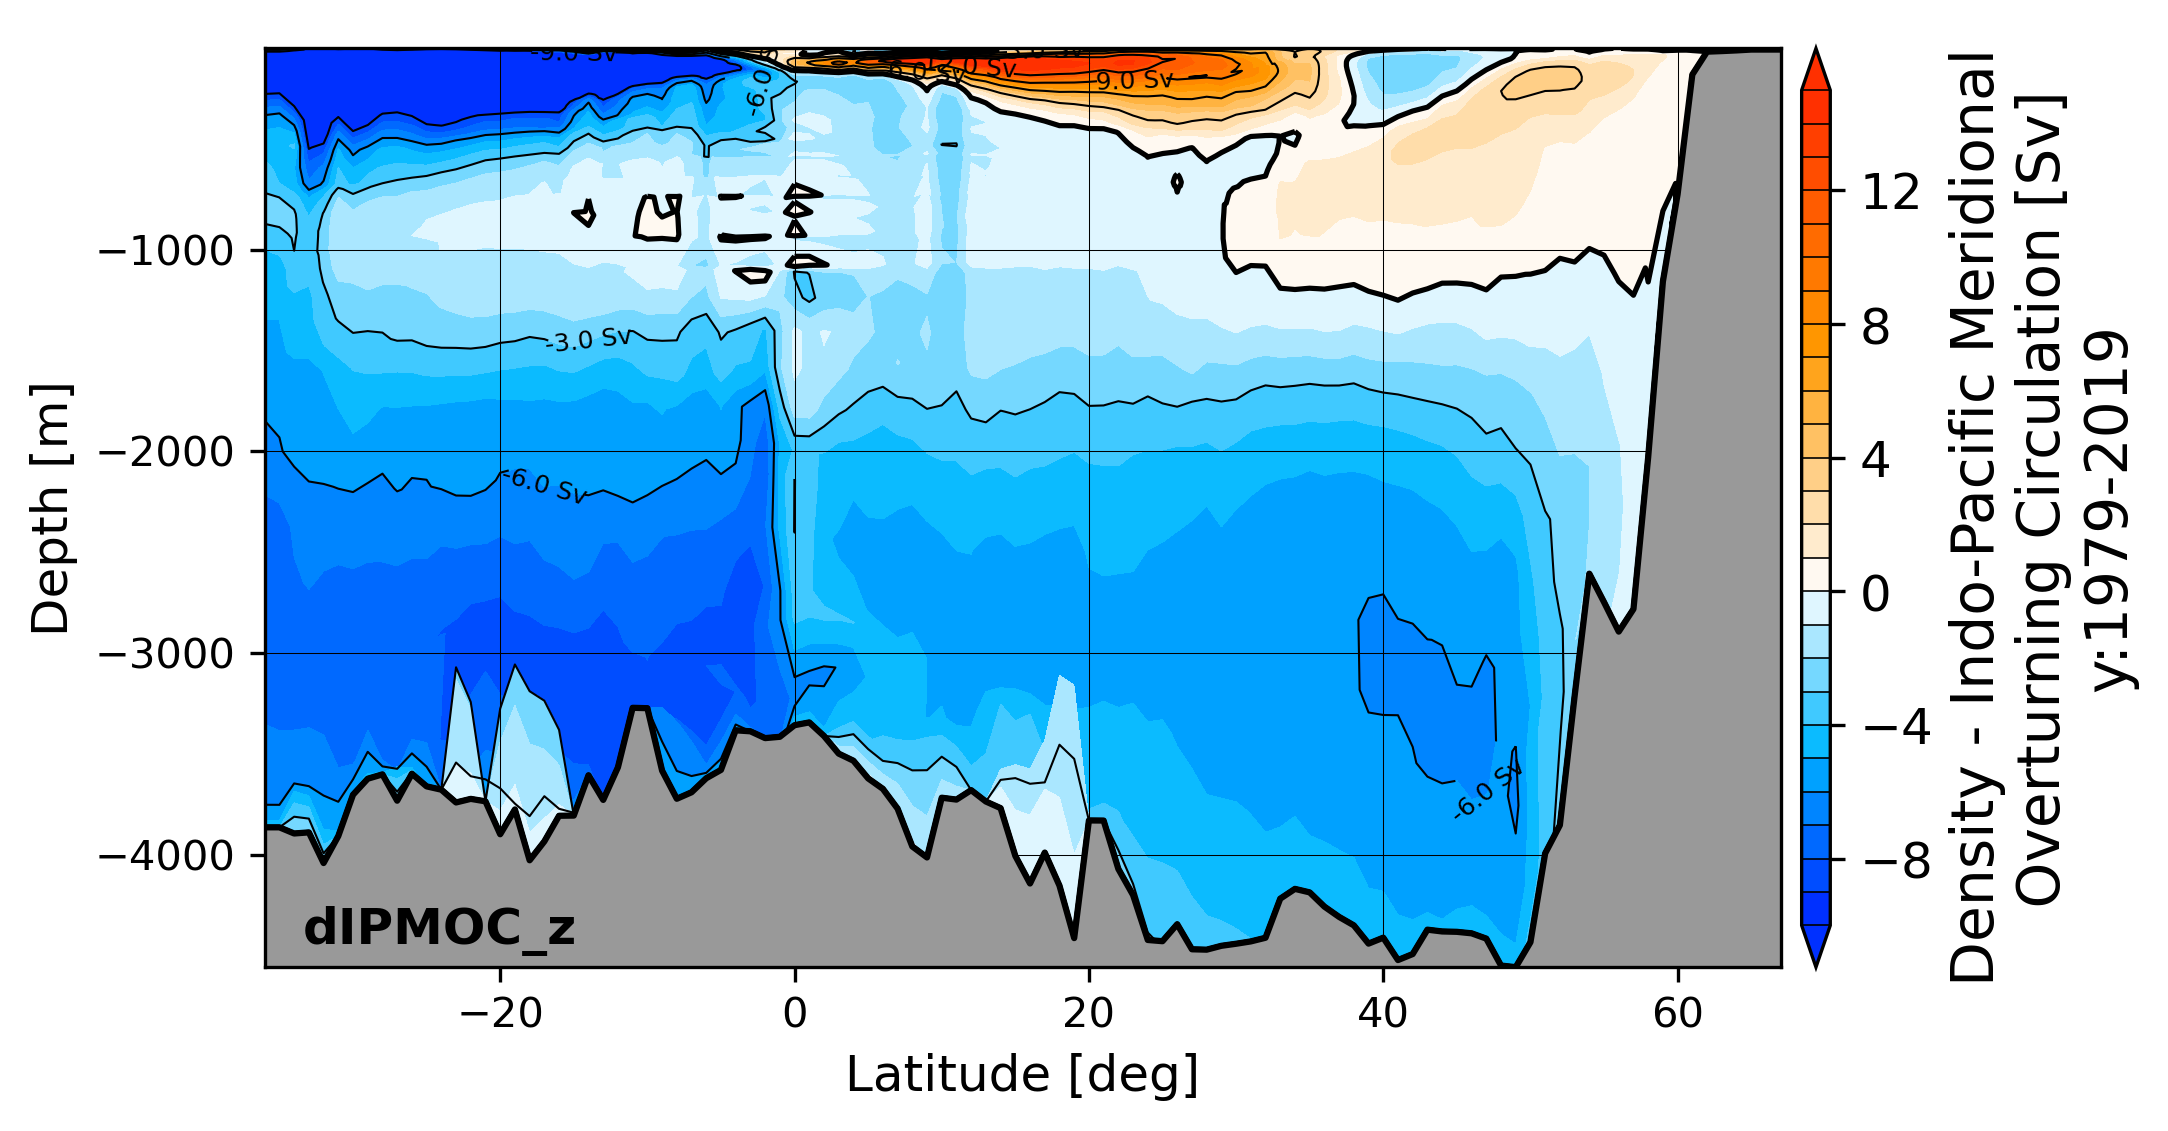
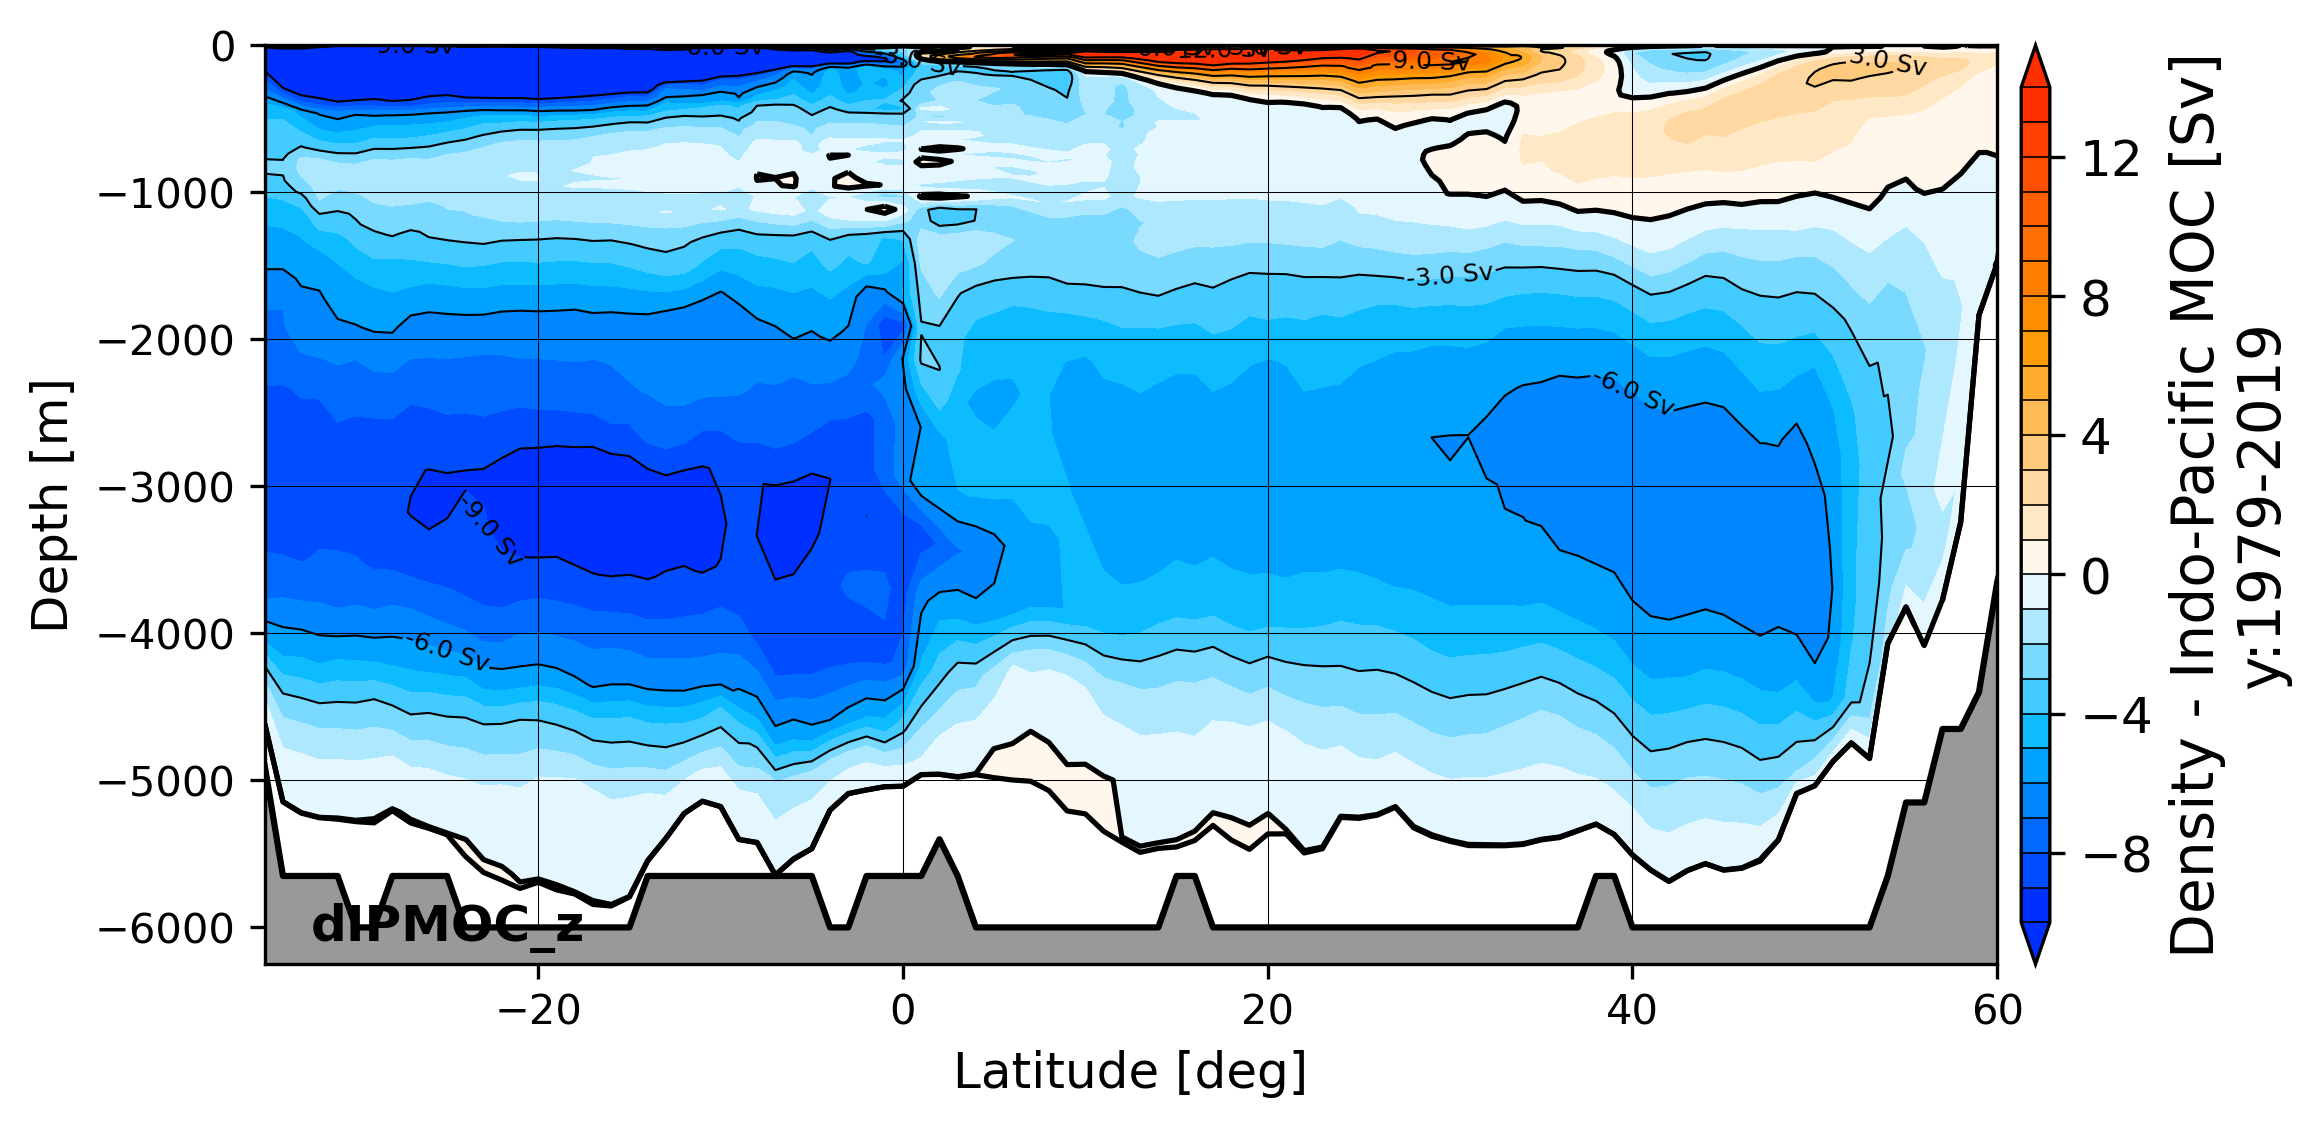
more improvements from changes in dmoc

diff --git a/tripyview/sub_dmoc.py b/tripyview/sub_dmoc.py
@@ -423,7 +423,7 @@ def calc_dmoc(mesh, data_dMOC, dlat=1.0, which_moc='gmoc', do_info=True, do_chec
 #+___PLOT MERIDIONAL OVERTRUNING CIRCULATION  _________________________________+
 #|                                                                             |
 #+_____________________________________________________________________________+
-def plot_dmoc(data, which_moc='gmoc', which_transf='dmoc', figsize=[12, 6], 
+def plot_dmoc(mesh, data, which_moc='gmoc', which_transf='dmoc', figsize=[12, 6], 
               n_rc=[1, 1], do_grid=True, cinfo=None, do_rescale=None,
               do_reffig=False, ref_cinfo=None, ref_rescale=None,
               cbar_nl=8, cbar_orient='vertical', cbar_label=None, cbar_unit=None,
@@ -603,9 +603,19 @@ def plot_dmoc(data, which_moc='gmoc', which_transf='dmoc', figsize=[12, 6],
         #_______________________________________________________________________
         # plot bottom representation in case of z-coordinates
         if do_zcoord: 
-            data_bot = np.nanmin(data_y, axis=0)
+            #data_bot = np.nanmin(data_y, axis=0)
+            data_bot = mesh.zlev[data[ii]['botmaxi'].max()+1]
             ax[ii].plot(data[ii]['lat'], -data[ii]['botmax'], color='k')
-            ax[ii].fill_between(data[ii]['lat'], -data[ii]['botmax'], data_bot.min(), color=color_bot, zorder=2)#,alpha=0.95)
+            ax[ii].fill_between(data[ii]['lat'], -data[ii]['botmax'], data_bot, color=color_bot, zorder=2)#,alpha=0.95)
+            ax[ii].set_ylim([data_bot,0])
+        
+        #_______________________________________________________________________
+        # set latitude limits
+        xlim = list(ax[ii].get_xlim())  
+        if   which_moc=='amoc' : xlim[1]=75
+        elif which_moc=='ipmoc': xlim[1]=60
+        elif which_moc=='pmoc' : xlim[1]=60
+        ax[ii].set_xlim(xlim)
             
         #_______________________________________________________________________
         # in case y-axes should be rescaled (do_yrescale=true) and plot is density
@@ -652,8 +662,9 @@ def plot_dmoc(data, which_moc='gmoc', which_transf='dmoc', figsize=[12, 6],
                 txty = data_y[0]+(data_y[-1]-data_y[0])*0.025    
             else:
                 txtx = data_x.min()+(data_x.max()-data_x.min())*0.025
-                txty = data_y.min()+(data_y.max()-data_y.min())*0.025    
-            
+                #txty = data_y.min()+(data_y.max()-data_y.min())*0.025
+                txty = data_bot+(0-data_bot)*0.025    
+                data_bot
             if   isinstance(title,str) : 
                 # if title string is 'descript' than use descript attribute from 
                 # data to set plot title 
